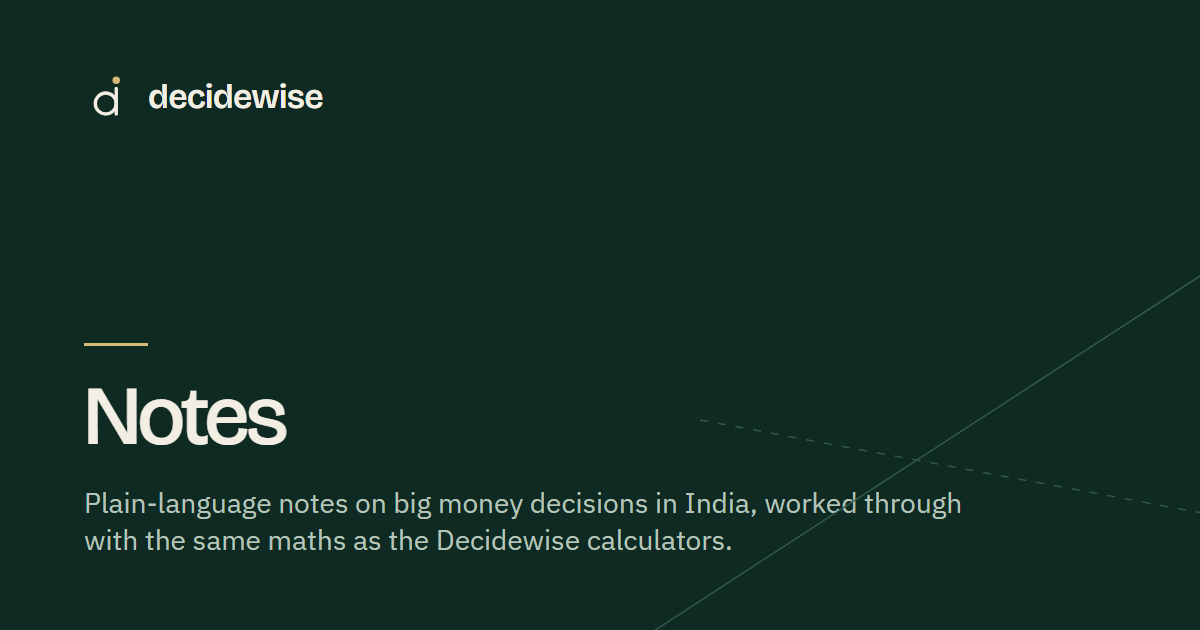
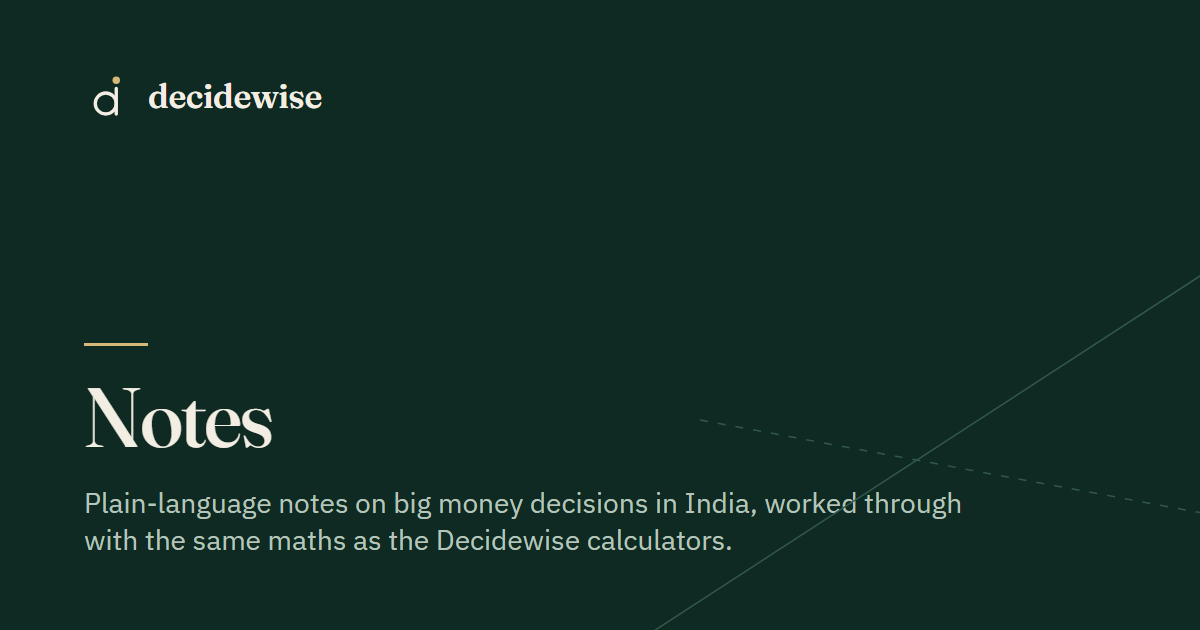
Display font: Fraunces instead of Bricolage Grotesque
Self-hosted optical-size cut (67 KB, was 77 KB), lighter tracking; link-preview
images re-rendered; design rule updated.

Changed region(s): [[0.0617, 0.6032, 0.2467, 0.7238], [0.1233, 0.1206, 0.2775, 0.181]]

diff --git a/src/styles/global.css b/src/styles/global.css
@@ -1,4 +1,4 @@
-@import '@fontsource-variable/bricolage-grotesque/opsz.css';
+@import '@fontsource-variable/fraunces/opsz.css';
 @import '@fontsource-variable/ibm-plex-sans/wght.css';
 @import '@fontsource/ibm-plex-sans-devanagari/devanagari-400.css';
 @import '@fontsource/ibm-plex-sans-devanagari/devanagari-500.css';
@@ -16,8 +16,7 @@
 @theme {
   /* Type: display voice for headings and verdicts, Plex for body, UI and numbers. */
   --font-display:
-    'Bricolage Grotesque Variable', 'IBM Plex Sans Devanagari', 'IBM Plex Sans Variable', system-ui,
-    sans-serif;
+    'Fraunces Variable', 'IBM Plex Sans Devanagari', Georgia, 'Times New Roman', serif;
   --font-sans:
     'IBM Plex Sans Variable', 'IBM Plex Sans', 'IBM Plex Sans Devanagari', system-ui, -apple-system,
     'Segoe UI', sans-serif;
@@ -42,11 +41,11 @@
   --text-5xl: 3rem;
   --text-5xl--line-height: 3.125rem;
   --text-display: clamp(2.5rem, 1.55rem + 3.9vw, 4.5rem);
-  --text-display--line-height: 1;
+  --text-display--line-height: 1.04;
   --text-figure: clamp(2.25rem, 1.7rem + 2.2vw, 3.25rem); /* the answer's headline number */
   --text-figure--line-height: 1.05;
-  --tracking-display: -0.04em;
-  --tracking-heading: -0.02em;
+  --tracking-display: -0.025em; /* Fraunces needs far less tightening than a grotesque */
+  --tracking-heading: -0.01em;
 
   /*
    * Colour: "private bank". Warm ivory paper and deep forest ink for reading; dark forest bands

diff --git a/CLAUDE.md b/CLAUDE.md
@@ -21,8 +21,9 @@ paused: strings stay in `hi.json`, but no Hindi pages are built (see `PUBLISHED_
 
 ## Design rules
 
-- **Type.** Two self-hosted families via `@fontsource` (never a Google Fonts link): Bricolage Grotesque
-  (optical-size cut, weight 500 at display sizes) for display (h1, h2, verdicts) and IBM Plex Sans + IBM Plex Sans Devanagari for body, UI and numbers.
+- **Type.** Two self-hosted families via `@fontsource` (never a Google Fonts link): Fraunces
+  (optical-size cut, weight 500 at display sizes, light tracking) for display (h1, h2, verdicts, the
+  wordmark) and IBM Plex Sans + IBM Plex Sans Devanagari for body, UI and numbers.
   Use the one type scale defined as `--text-*` tokens in `src/styles/global.css`; no arbitrary font
   sizes in components. Tabular figures (`.num`) for every number that can change.
 - **Tokens.** Colours, spacing, radius, shadows and motion (durations and easing curves) are CSS custom
